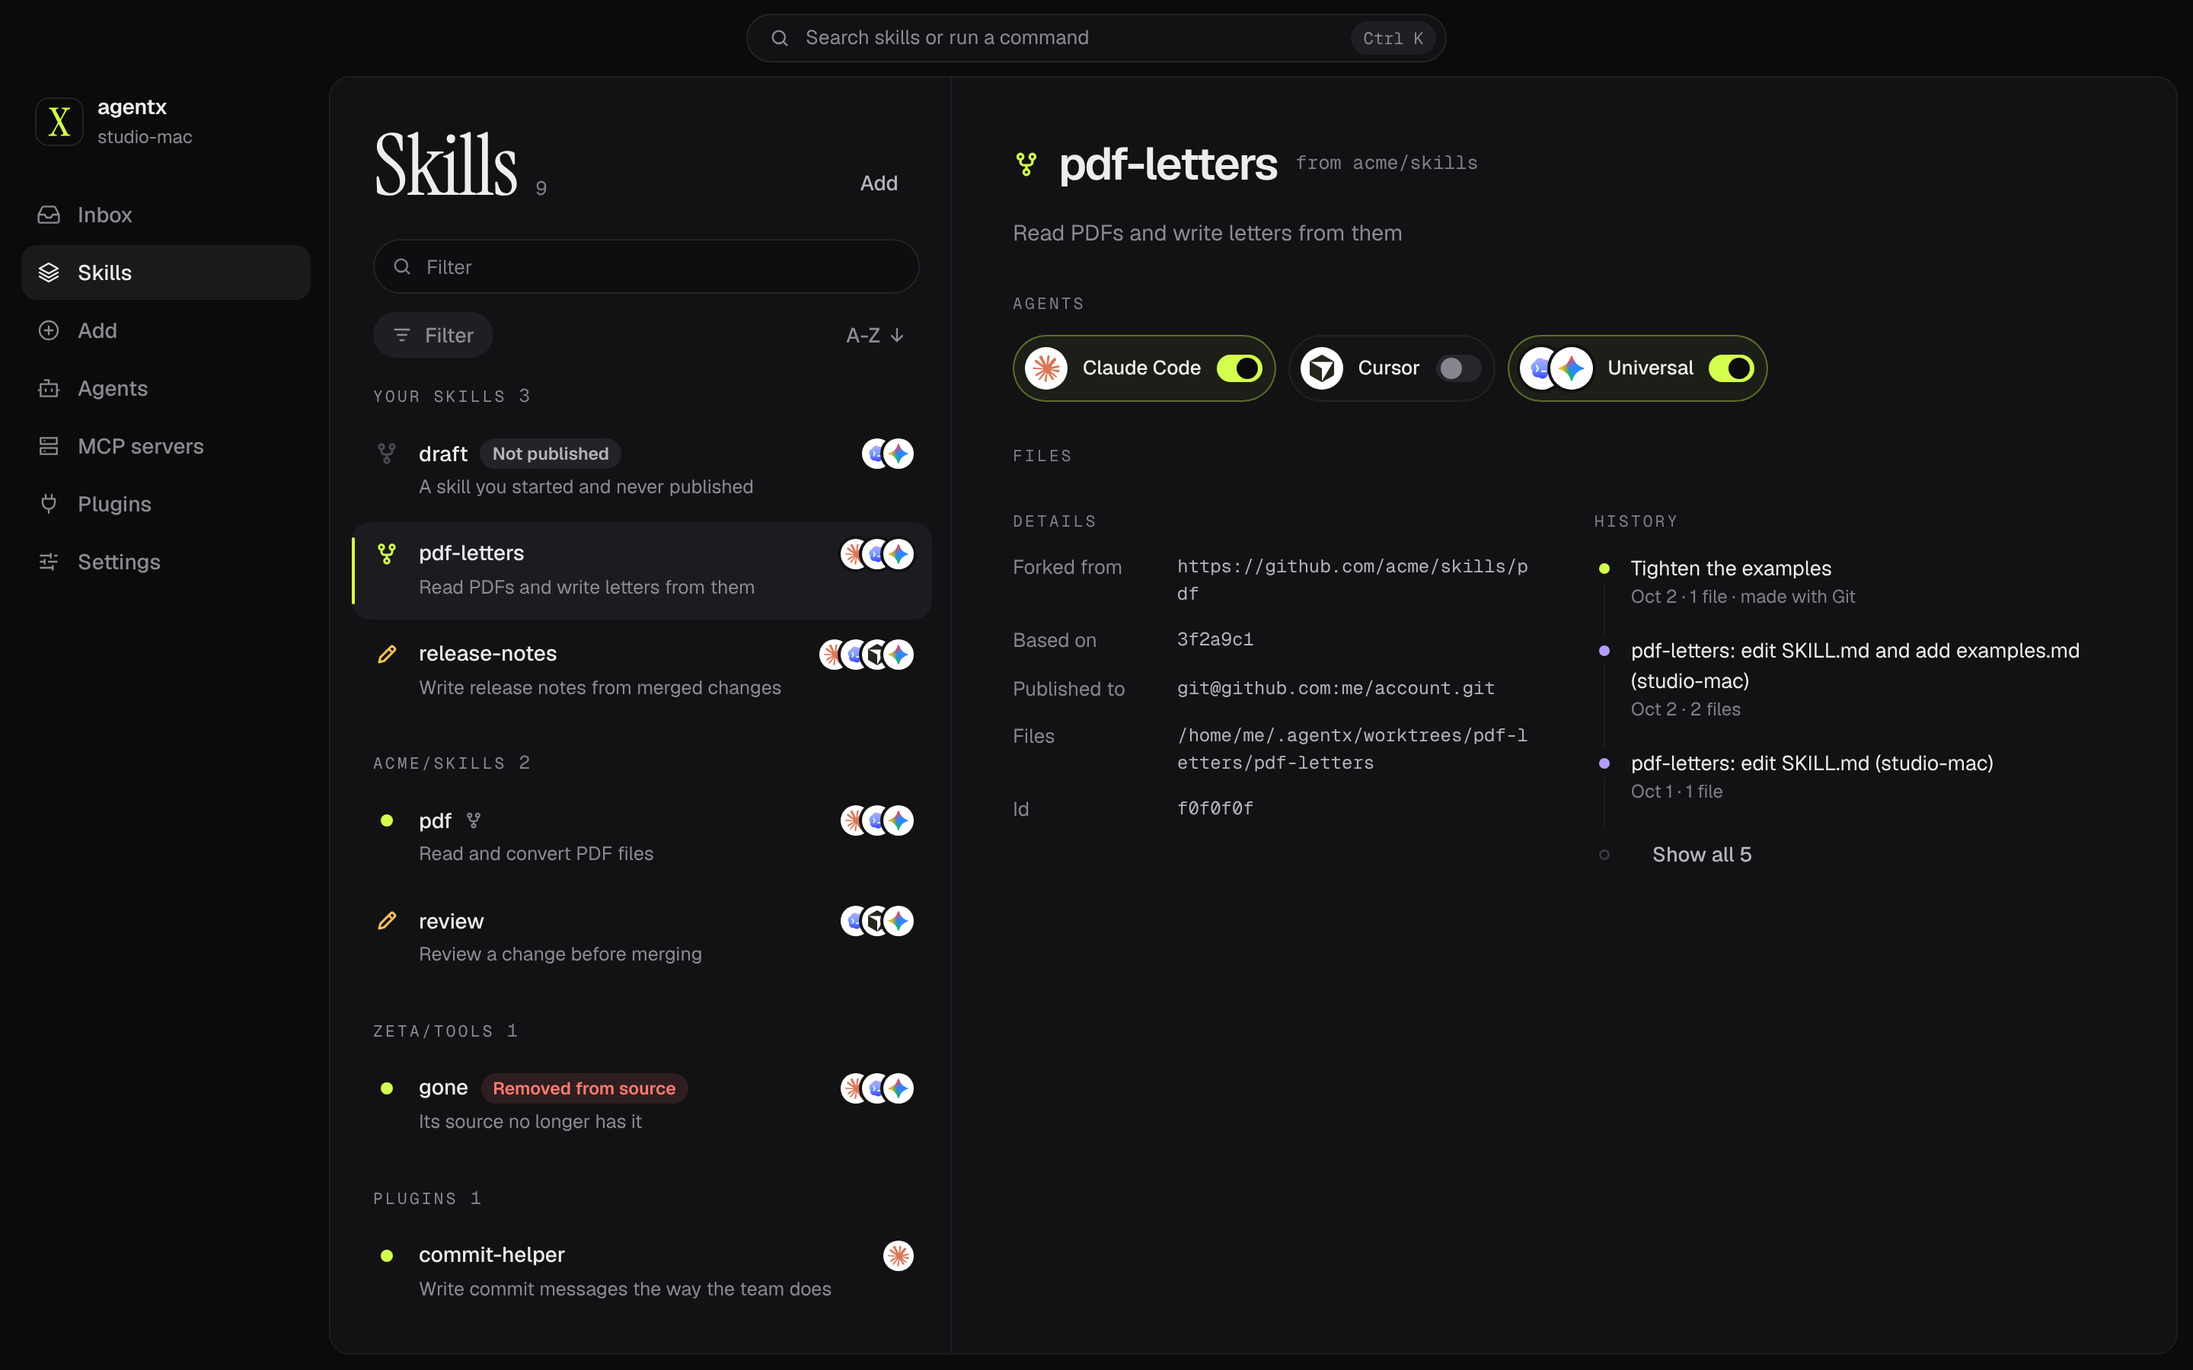
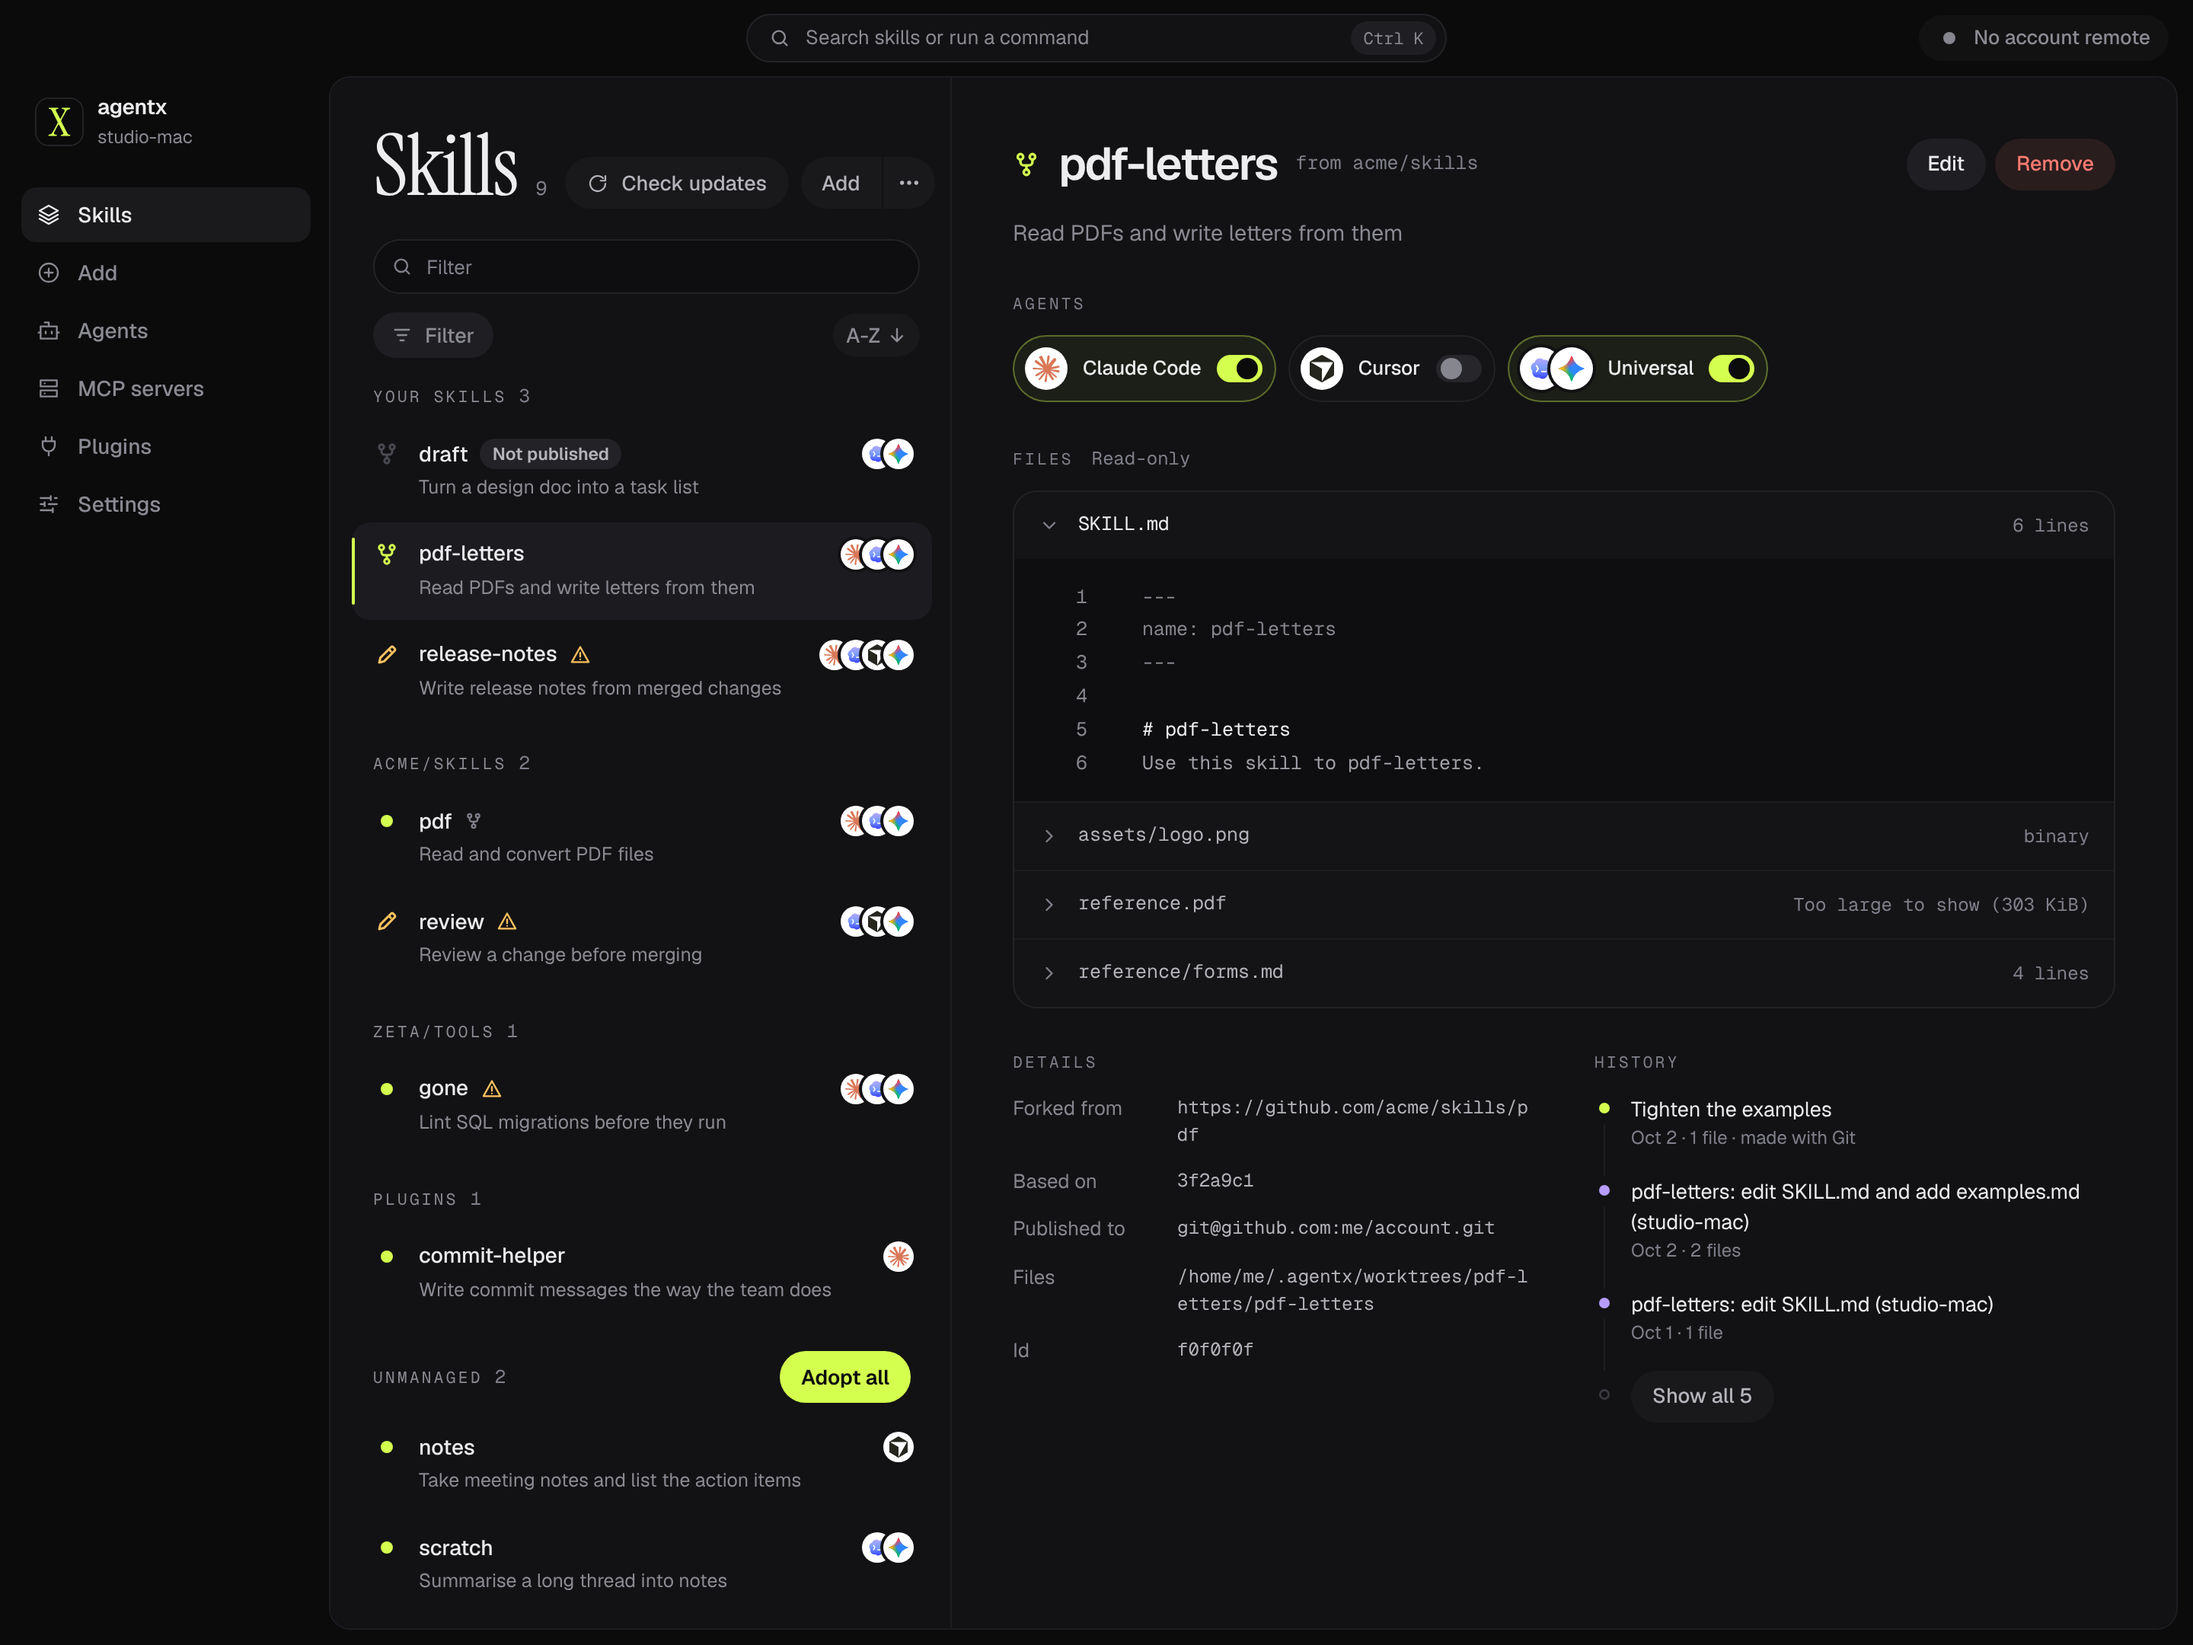
docs: update the README screenshot of the Skills page (#188)
## Summary

Replace the README screenshot of the Skills page with one of the app as
it is now. It shows the files of the selected skill, its Edit and Remove
actions, Check updates, and the unmanaged skills with Adopt all. The alt
text now names the files.

The image comes from the frontend on the Vite dev server with the
fixture machine of `apps/desktop/e2e/fixtures/skills.ts`, at 1440 x 1080
and 2x.

## Evidence

- **Before:**

![Before](https://github.com/grundmanise/agentx/raw/main/docs/help-center/images/skills-list.png)

- **After:**

![After](https://github.com/grundmanise/agentx/raw/a308513d424c13512e16d7767035fd478da6d841/docs/help-center/images/skills-list.png)

## Checklist

- [ ] `make check` passes (not run: the change is an image and its alt
text)
- [ ] Tests cover the change in behavior (no change in behavior)
- [x] The Help Center in `docs/help-center` reflects the change
- [x] New terms match `GLOSSARY.md`, and any conflict with an ADR is
explained above

---
_Generated by [Claude
Code](https://claude.ai/code/session_01KhrxotoBiqfncyvEriTmH2)_

diff --git a/README.md b/README.md
@@ -18,7 +18,7 @@
 
 ## Quick look
 
-![The Skills page of the agentx app: skills grouped by source, with one selected and its agents, details and history](docs/help-center/images/skills-list.png)
+![The Skills page of the agentx app: skills grouped by source, with one selected and its agents, files, details and history](docs/help-center/images/skills-list.png)
 
 ## Install
 
